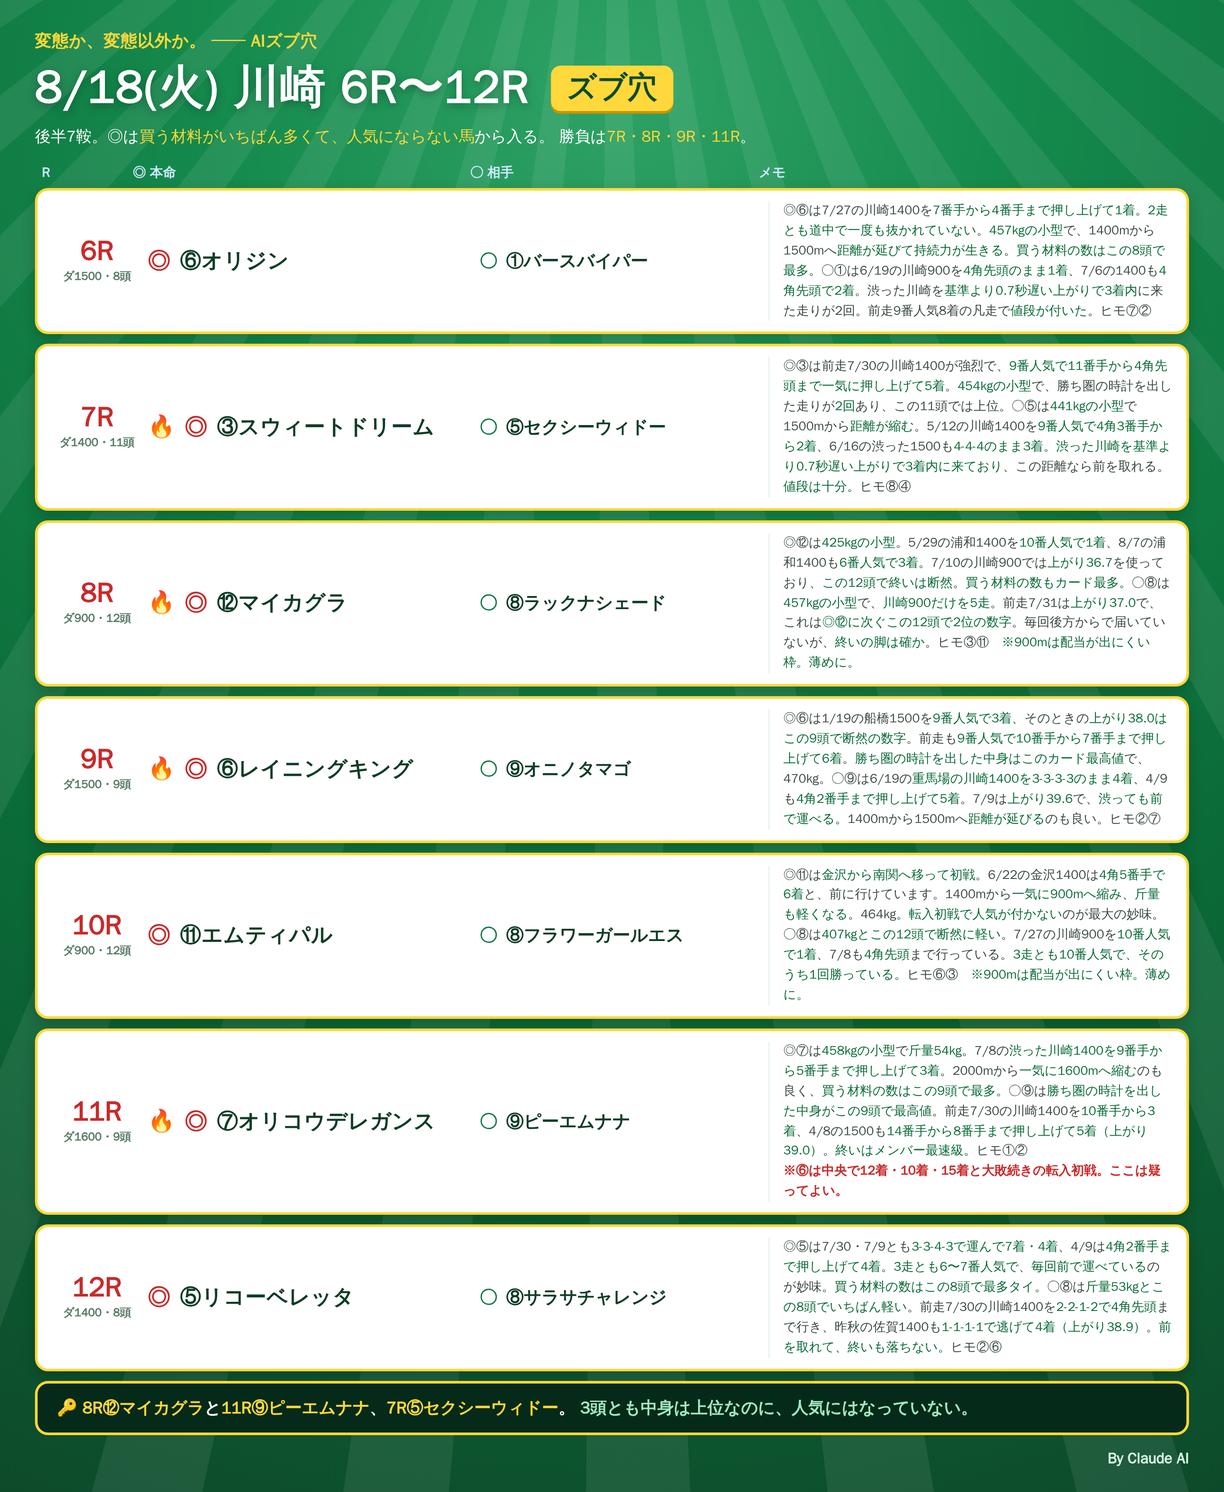
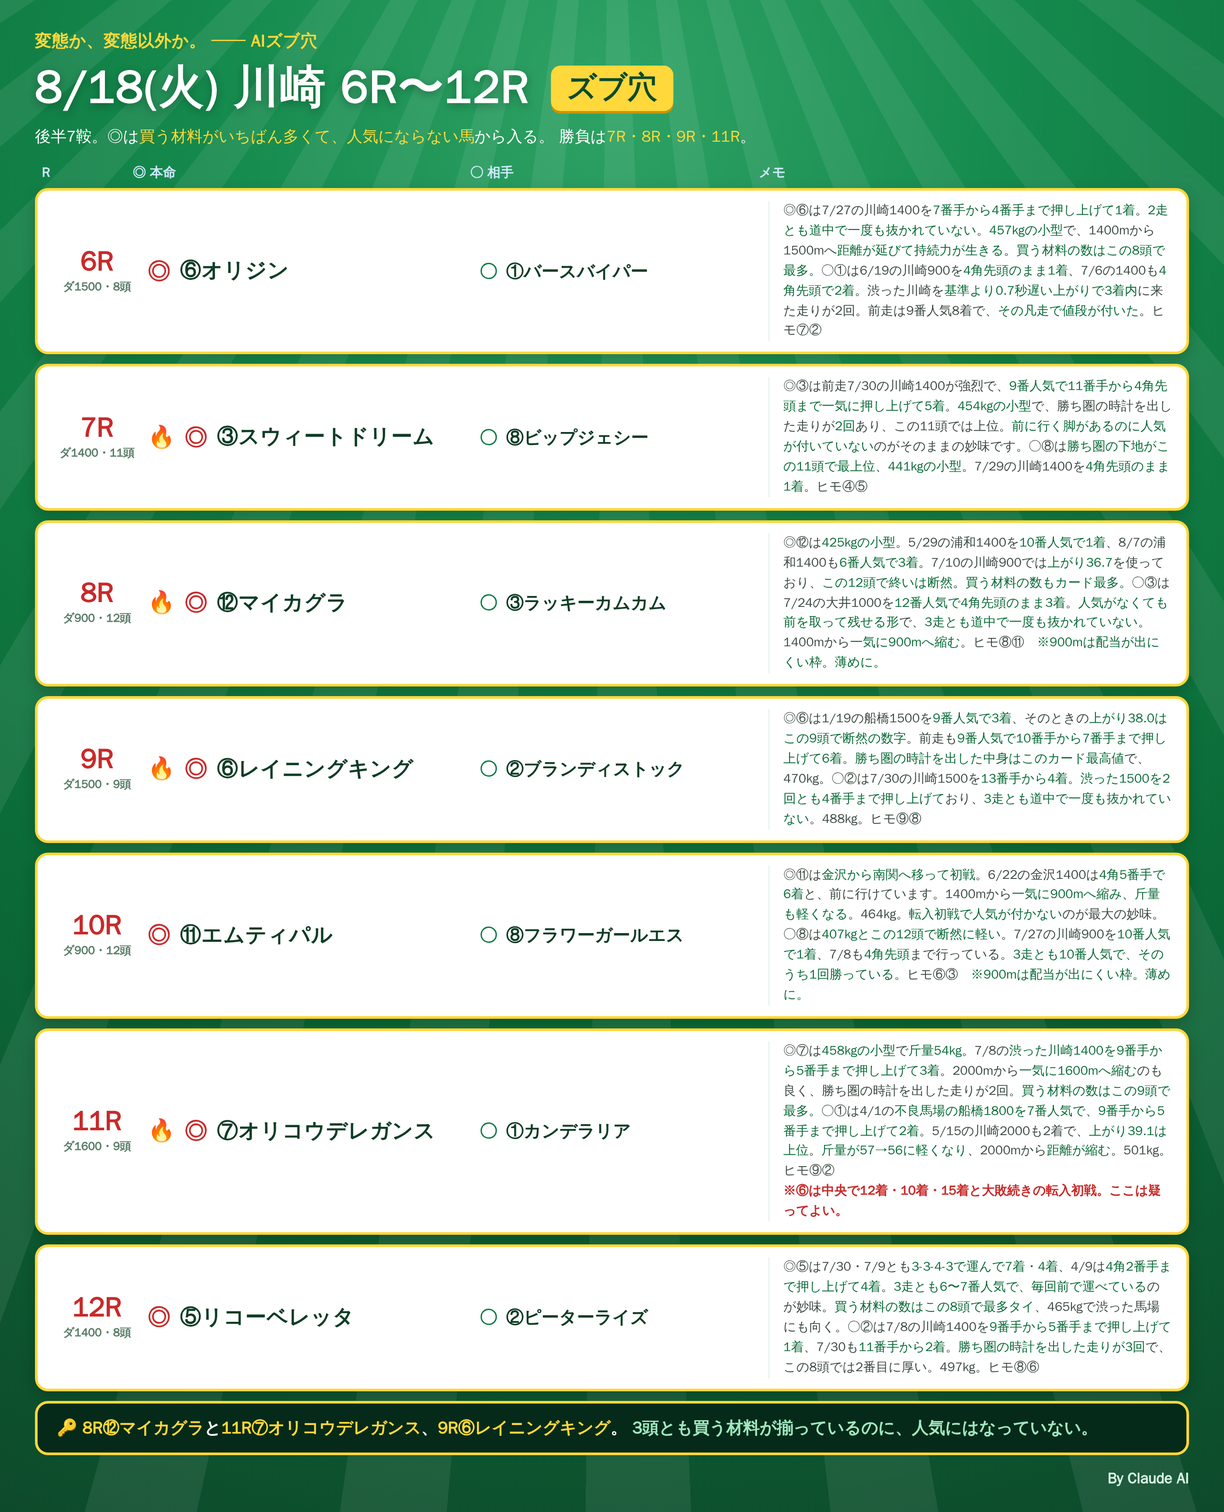
notes: 8/18 川崎 ○を当初の選定に戻す（人気側を許容）
Claude-Session: https://claude.ai/code/session_01RoHscZkr96FNaxQWvUqgEw

diff --git a/notes/live/2026-08-18/kawasaki_6_12.html b/notes/live/2026-08-18/kawasaki_6_12.html
@@ -40,6 +40,7 @@
   .sig { text-align:right; color:#d6f2e2; font-size:17px; font-weight:800; margin-top:16px; }
 </style></head>
 
+
 <body>
 <div class="card"><div class="rays"></div><div class="inner">
   <div class="kicker">変態か、変態以外か。 ── AIズブ穴</div>
@@ -56,28 +57,28 @@
     <div class="rN"><div class="n">6R</div><div class="d">ダ1500・8頭</div></div>
     <div class="hm"><span class="mk">◎</span><span class="nm">⑥オリジン</span></div>
     <div class="at"><span class="mk2">○</span><span class="nm2">①バースバイパー</span></div>
-    <div class="memo">◎⑥は7/27の川崎1400を<b>7番手から4番手まで押し上げて1着</b>。<b>2走とも道中で一度も抜かれていない</b>。<b>457kgの小型</b>で、1400mから1500mへ<b>距離が延びて持続力が生きる</b>。<b>買う材料の数はこの8頭で最多。</b>○①は6/19の川崎900を<b>4角先頭のまま1着</b>、7/6の1400も<b>4角先頭で2着</b>。渋った川崎を<b>基準より0.7秒遅い上がりで3着内</b>に来た走りが2回。前走9番人気8着の凡走で<b>値段が付いた</b>。ヒモ⑦②</div>
+    <div class="memo">◎⑥は7/27の川崎1400を<b>7番手から4番手まで押し上げて1着</b>。<b>2走とも道中で一度も抜かれていない</b>。<b>457kgの小型</b>で、1400mから1500mへ<b>距離が延びて持続力が生きる</b>。<b>買う材料の数はこの8頭で最多。</b>○①は6/19の川崎900を<b>4角先頭のまま1着</b>、7/6の1400も<b>4角先頭で2着</b>。渋った川崎を<b>基準より0.7秒遅い上がりで3着内</b>に来た走りが2回。前走は9番人気8着で、<b>その凡走で値段が付いた</b>。ヒモ⑦②</div>
   </div>
 
   <div class="row">
     <div class="rN"><div class="n">7R</div><div class="d">ダ1400・11頭</div></div>
     <div class="hm"><span class="fire">🔥</span><span class="mk">◎</span><span class="nm">③スウィートドリーム</span></div>
-    <div class="at"><span class="mk2">○</span><span class="nm2">⑤セクシーウィドー</span></div>
-    <div class="memo">◎③は前走7/30の川崎1400が強烈で、<b>9番人気で11番手から4角先頭まで一気に押し上げて5着</b>。<b>454kgの小型</b>で、勝ち圏の時計を出した走りが<b>2回</b>あり、この11頭では上位。○⑤は<b>441kgの小型</b>で1500mから<b>距離が縮む</b>。5/12の川崎1400を<b>9番人気で4角3番手から2着</b>、6/16の渋った1500も<b>4-4-4のまま3着</b>。<b>渋った川崎を基準より0.7秒遅い上がりで3着内に来ており</b>、この距離なら前を取れる。<b>値段は十分。</b>ヒモ⑧④</div>
+    <div class="at"><span class="mk2">○</span><span class="nm2">⑧ビップジェシー</span></div>
+    <div class="memo">◎③は前走7/30の川崎1400が強烈で、<b>9番人気で11番手から4角先頭まで一気に押し上げて5着</b>。<b>454kgの小型</b>で、勝ち圏の時計を出した走りが<b>2回</b>あり、この11頭では上位。<b>前に行く脚があるのに人気が付いていない</b>のがそのままの妙味です。○⑧は<b>勝ち圏の下地がこの11頭で最上位</b>、<b>441kgの小型</b>。7/29の川崎1400を<b>4角先頭のまま1着</b>。ヒモ④⑤</div>
   </div>
 
   <div class="row">
     <div class="rN"><div class="n">8R</div><div class="d">ダ900・12頭</div></div>
     <div class="hm"><span class="fire">🔥</span><span class="mk">◎</span><span class="nm">⑫マイカグラ</span></div>
-    <div class="at"><span class="mk2">○</span><span class="nm2">⑧ラックナシェード</span></div>
-    <div class="memo">◎⑫は<b>425kgの小型</b>。5/29の浦和1400を<b>10番人気で1着</b>、8/7の浦和1400も<b>6番人気で3着</b>。7/10の川崎900では<b>上がり36.7</b>を使っており、<b>この12頭で終いは断然</b>。<b>買う材料の数もカード最多。</b>○⑧は<b>457kgの小型</b>で、<b>川崎900だけを5走</b>。前走7/31は<b>上がり37.0</b>で、これは<b>◎⑫に次ぐこの12頭で2位の数字</b>。毎回後方からで届いていないが、<b>終いの脚は確か</b>。ヒモ③⑪　<b>※900mは配当が出にくい枠。薄めに。</b></div>
+    <div class="at"><span class="mk2">○</span><span class="nm2">③ラッキーカムカム</span></div>
+    <div class="memo">◎⑫は<b>425kgの小型</b>。5/29の浦和1400を<b>10番人気で1着</b>、8/7の浦和1400も<b>6番人気で3着</b>。7/10の川崎900では<b>上がり36.7</b>を使っており、<b>この12頭で終いは断然</b>。<b>買う材料の数もカード最多。</b>○③は7/24の大井1000を<b>12番人気で4角先頭のまま3着</b>。<b>人気がなくても前を取って残せる形</b>で、<b>3走とも道中で一度も抜かれていない</b>。1400mから<b>一気に900mへ縮む</b>。ヒモ⑧⑪　<b>※900mは配当が出にくい枠。薄めに。</b></div>
   </div>
 
   <div class="row">
     <div class="rN"><div class="n">9R</div><div class="d">ダ1500・9頭</div></div>
     <div class="hm"><span class="fire">🔥</span><span class="mk">◎</span><span class="nm">⑥レイニングキング</span></div>
-    <div class="at"><span class="mk2">○</span><span class="nm2">⑨オニノタマゴ</span></div>
-    <div class="memo">◎⑥は1/19の船橋1500を<b>9番人気で3着</b>、そのときの<b>上がり38.0はこの9頭で断然の数字</b>。前走も<b>9番人気で10番手から7番手まで押し上げて6着</b>。<b>勝ち圏の時計を出した中身はこのカード最高値</b>で、470kg。○⑨は6/19の<b>重馬場の川崎1400を3-3-3-3のまま4着</b>、4/9も<b>4角2番手まで押し上げて5着</b>。7/9は<b>上がり39.6</b>で、<b>渋っても前で運べる</b>。1400mから1500mへ<b>距離が延びる</b>のも良い。ヒモ②⑦</div>
+    <div class="at"><span class="mk2">○</span><span class="nm2">②ブランディストック</span></div>
+    <div class="memo">◎⑥は1/19の船橋1500を<b>9番人気で3着</b>、そのときの<b>上がり38.0はこの9頭で断然の数字</b>。前走も<b>9番人気で10番手から7番手まで押し上げて6着</b>。<b>勝ち圏の時計を出した中身はこのカード最高値</b>で、470kg。○②は7/30の川崎1500を<b>13番手から4着</b>。<b>渋った1500を2回とも4番手まで押し上げて</b>おり、<b>3走とも道中で一度も抜かれていない</b>。488kg。ヒモ⑨⑧</div>
   </div>
 
   <div class="row">
@@ -90,19 +91,19 @@
   <div class="row">
     <div class="rN"><div class="n">11R</div><div class="d">ダ1600・9頭</div></div>
     <div class="hm"><span class="fire">🔥</span><span class="mk">◎</span><span class="nm">⑦オリコウデレガンス</span></div>
-    <div class="at"><span class="mk2">○</span><span class="nm2">⑨ピーエムナナ</span></div>
-    <div class="memo">◎⑦は<b>458kgの小型</b>で<b>斤量54kg</b>。7/8の<b>渋った川崎1400を9番手から5番手まで押し上げて3着</b>。2000mから<b>一気に1600mへ縮む</b>のも良く、<b>買う材料の数はこの9頭で最多。</b>○⑨は<b>勝ち圏の時計を出した中身がこの9頭で最高値</b>。前走7/30の川崎1400を<b>10番手から3着</b>、4/8の1500も<b>14番手から8番手まで押し上げて5着（上がり39.0）</b>。<b>終いはメンバー最速級。</b>ヒモ①②<br><b class='r'>※⑥は中央で12着・10着・15着と大敗続きの転入初戦。ここは疑ってよい。</b></div>
+    <div class="at"><span class="mk2">○</span><span class="nm2">①カンデラリア</span></div>
+    <div class="memo">◎⑦は<b>458kgの小型</b>で<b>斤量54kg</b>。7/8の<b>渋った川崎1400を9番手から5番手まで押し上げて3着</b>。2000mから<b>一気に1600mへ縮む</b>のも良く、勝ち圏の時計を出した走りが2回。<b>買う材料の数はこの9頭で最多。</b>○①は4/1の<b>不良馬場の船橋1800を7番人気で、9番手から5番手まで押し上げて2着</b>。5/15の川崎2000も2着で、<b>上がり39.1は上位</b>。<b>斤量が57→56に軽くなり</b>、2000mから<b>距離が縮む</b>。501kg。ヒモ⑨②<br><b class='r'>※⑥は中央で12着・10着・15着と大敗続きの転入初戦。ここは疑ってよい。</b></div>
   </div>
 
   <div class="row">
     <div class="rN"><div class="n">12R</div><div class="d">ダ1400・8頭</div></div>
     <div class="hm"><span class="mk">◎</span><span class="nm">⑤リコーベレッタ</span></div>
-    <div class="at"><span class="mk2">○</span><span class="nm2">⑧サラサチャレンジ</span></div>
-    <div class="memo">◎⑤は7/30・7/9とも<b>3-3-4-3で運んで7着・4着</b>、4/9は<b>4角2番手まで押し上げて4着</b>。<b>3走とも6〜7番人気で、毎回前で運べている</b>のが妙味。<b>買う材料の数はこの8頭で最多タイ。</b>○⑧は<b>斤量53kgとこの8頭でいちばん軽い</b>。前走7/30の川崎1400を<b>2-2-1-2で4角先頭</b>まで行き、昨秋の佐賀1400も<b>1-1-1-1で逃げて4着（上がり38.9）</b>。<b>前を取れて、終いも落ちない。</b>ヒモ②⑥</div>
+    <div class="at"><span class="mk2">○</span><span class="nm2">②ピーターライズ</span></div>
+    <div class="memo">◎⑤は7/30・7/9とも<b>3-3-4-3で運んで7着・4着</b>、4/9は<b>4角2番手まで押し上げて4着</b>。<b>3走とも6〜7番人気で、毎回前で運べている</b>のが妙味。<b>買う材料の数はこの8頭で最多タイ</b>、465kgで渋った馬場にも向く。○②は7/8の川崎1400を<b>9番手から5番手まで押し上げて1着</b>、7/30も<b>11番手から2着</b>。<b>勝ち圏の時計を出した走りが3回</b>で、この8頭では2番目に厚い。497kg。ヒモ⑧⑥</div>
   </div>
 
-  <div class="foot">🔑 <span class="y">8R⑫マイカグラ</span>と<span class="y">11R⑨ピーエムナナ</span>、<span class="y">7R⑤セクシーウィドー</span>。
-  <span class="c">3頭とも中身は上位なのに、人気にはなっていない。</span></div>
+  <div class="foot">🔑 <span class="y">8R⑫マイカグラ</span>と<span class="y">11R⑦オリコウデレガンス</span>、<span class="y">9R⑥レイニングキング</span>。
+  <span class="c">3頭とも買う材料が揃っているのに、人気にはなっていない。</span></div>
   <div class="sig">By Claude AI</div>
 </div></div>
 </body></html>

diff --git a/notes/live/2026-08-18/kawasaki_triple_umatan.html b/notes/live/2026-08-18/kawasaki_triple_umatan.html
@@ -53,12 +53,12 @@
     <div class="line"><div class="tag"><span class="t1">1着 本命</span></div><div class="chips">
       <div class="chip honmei"><span class="no">11</span><span class="nm">エムティパル</span><span class="meta">エッジ4で12頭最多タイ・464kg・斤量減・1400→900の大幅短縮／<b>金沢から南関へ移って初戦＝人気が付かない</b></span></div></div></div>
     <div class="line"><div class="tag"><span class="t2">1着 保険</span></div><div class="chips">
-      <div class="chip hoken"><span class="no">2</span><span class="nm">アタゴテンジン</span><span class="meta">3走とも4角先頭（2着・3着・1着）＝堅い側の保険</span></div></div></div>
+      <div class="chip hoken"><span class="no">3</span><span class="nm">エースクイーン</span><span class="meta">3走とも1番人気（1着・3着・1着）・443kgの小型・4角先頭＝堅い側の保険</span></div></div></div>
     <div class="line"><div class="tag"><span class="t3">2着 →</span></div><div class="chips">
       <div class="chip aite ana"><span class="no">8</span><span class="nm">フラワーガールエス</span><span class="meta">407kg＝12頭で断然に軽い・斤53kg／7/27を<b>10番人気で1着</b>・3走とも10番人気</span></div>
       <div class="chip aite ana"><span class="no">6</span><span class="nm">キョウエイハゴロモ</span><span class="meta">7/27を9番人気で4角先頭から3着・減量51kgで最軽量斤量</span></div>
       <div class="chip aite"><span class="no">5</span><span class="nm">クレイスアバンティ</span><span class="meta">439kg・減量51kg・4角2番手</span></div>
-      <div class="chip aite"><span class="no">3</span><span class="nm">エースクイーン</span><span class="meta">3走とも1番人気で1着3着1着・443kgの小型・4角先頭</span></div></div></div>
+      <div class="chip aite"><span class="no">2</span><span class="nm">アタゴテンジン</span><span class="meta">3走とも4角先頭（2着・3着・1着）</span></div></div></div>
     <div class="rc">⑪は<b>転入初戦で人気が付かないのが最大の妙味</b>だが、中身は薄い。<span class="o">2着筆頭の⑧は3走とも10番人気で、そのうち1回勝っている</span>＝900mでいちばん配当になる形なので、<b>⑪→⑧と⑧→⑪の両にらみでよい</b>。保険は3走とも1番人気の③。</div>
   </div>
 
@@ -69,8 +69,8 @@
     <div class="line"><div class="tag"><span class="t2">1着 保険</span></div><div class="chips">
       <div class="chip hoken"><span class="no">3</span><span class="nm">スカイアクロス</span><span class="meta">実力軸1位45.1%・前走7/30の同コースを4角5番手から2着＝堅い側の保険</span></div></div></div>
     <div class="line"><div class="tag"><span class="t3">2着 →</span></div><div class="chips">
-      <div class="chip aite ana"><span class="no">9</span><span class="nm">ピーエムナナ</span><span class="meta">下地9.8＝<b>9頭で最高値</b>・461kg／7/30を10番手から3着・4/8は14番手から8番手まで押し上げ5着</span></div>
       <div class="chip aite ana"><span class="no">1</span><span class="nm">カンデラリア</span><span class="meta">エッジ6・下地9.2本物2・斤57→56／4/1の不良の船橋1800を<b>7番人気で2着</b></span></div>
+      <div class="chip aite ana"><span class="no">9</span><span class="nm">ピーエムナナ</span><span class="meta">下地9.8＝<b>9頭で最高値</b>・461kg／7/30を10番手から3着・4/8は14番手から8番手まで押し上げ5着</span></div>
       <div class="chip aite ana"><span class="no">8</span><span class="nm">デアシュトゥルム</span><span class="meta">3走とも4角先頭・6/19を9番人気3着・481kg</span></div>
       <div class="chip aite"><span class="no">4</span><span class="nm">エレファントラン</span><span class="meta">3走とも4角3番手以内・下地5.7本物2・480kg</span></div></div></div>
     <div class="rc">⑦は<b>エッジ7でカード最多、下地も本物2で最上位級</b>。2000mからの大幅短縮と斤54kgが後押し。<span class="o">保険は③スカイアクロス</span>。<b class="o">⑥オペラプラージュは中央で12着・10着・15着と大敗続きの転入初戦＝ここは疑ってよい。</b></div>
@@ -83,8 +83,8 @@
     <div class="line"><div class="tag"><span class="t2">1着 保険</span></div><div class="chips">
       <div class="chip hoken"><span class="no">6</span><span class="nm">ジーティーアグリム</span><span class="meta"><b>3連勝中</b>・下地10.4本物4で8頭断然・4角先頭・道中で一度も抜かれていない＝堅い側の保険</span></div></div></div>
     <div class="line"><div class="tag"><span class="t3">2着 →</span></div><div class="chips">
-      <div class="chip aite ana"><span class="no">8</span><span class="nm">サラサチャレンジ</span><span class="meta">斤53kgで8頭最軽量／7/30を2-2-1-2で4角先頭・昨秋の佐賀1400は逃げて4着（上がり38.9）</span></div>
       <div class="chip aite ana"><span class="no">2</span><span class="nm">ピーターライズ</span><span class="meta">エッジ5・下地9.6本物3＝8頭で2番目／7/8を9番手から1着・7/30も11番手から2着</span></div>
+      <div class="chip aite ana"><span class="no">8</span><span class="nm">サラサチャレンジ</span><span class="meta">斤53kgで8頭最軽量／7/30を2-2-1-2で4角先頭・昨秋の佐賀1400は逃げて4着（上がり38.9）</span></div>
       <div class="chip aite ana"><span class="no">7</span><span class="nm">ナリノエンブレム</span><span class="meta">3走とも4角先頭で一度も抜かれず・上がりのブレ1.20が小さい</span></div>
       <div class="chip aite"><span class="no">3</span><span class="nm">トウマ</span><span class="meta">464kg・下地4.9・3走とも掲示板圏内</span></div></div></div>
     <div class="rc">⑤は<b>毎回6〜7番人気なのに、毎回前で運べている</b>のが妙味。<span class="o">保険は3連勝中で下地断然の⑥</span>。8頭立てなので2着は絞りやすい。</div>
@@ -92,7 +92,7 @@
 
   <div class="buys">
     <div class="buy hon"><div class="bt">▶ 本線（1着2頭 × 2着3頭）</div>
-      <div class="bl">10R <span class="a">⑪②</span>→<span class="s">⑧⑥③</span> ／ 11R <span class="a">⑦③</span>→<span class="s">⑨①⑧</span> ／ 12R <span class="a">⑤⑥</span>→<span class="s">⑧②⑦</span></div>
+      <div class="bl">10R <span class="a">⑪③</span>→<span class="s">⑧⑥⑤</span> ／ 11R <span class="a">⑦③</span>→<span class="s">①⑨⑧</span> ／ 12R <span class="a">⑤⑥</span>→<span class="s">②⑦⑧</span></div>
       <div class="bn">6×6×6＝<b>216点・10,800円</b>。1着を◎＋保険の2頭に割り、2着を3頭で受ける標準形（トリプル馬単は1点50円）。</div></div>
     <div class="buy hok"><div class="bt">▶ 絞り／総取り</div>
       <div class="bl">絞り 1着を<span class="a">⑪・⑦・⑤</span>に固定 → 3×3×3＝<span class="a">27点・1,350円</span><br>総取り 8×8×8＝<span class="a">512点・25,600円</span>（2着を各4頭）</div>

diff --git a/notes/live/2026-08-18/README.md b/notes/live/2026-08-18/README.md
@@ -142,7 +142,7 @@
 
 → **◎7頭のうち6頭が5番人気以下。**7Rだけ4番人気だが、中身（前走9番人気で11番手から4角先頭まで押し上げ／下地6.2本物2）が断然のため据え置いた。
 
-## ★○を5レースで差し替え（人気側に寄っていたため）
+## ~~★○を5レースで差し替え（人気側に寄っていたため）~~ → **撤回（本人指示 2026-08-17「○もとに戻して！人気で良いから」）**
 | R | 旧○ | 人気 | → | 新○ | 人気 | 差し替えの理由 |
 |---|---|---|---|---|---|---|
 | 7R | ⑧ビップジェシー | 5人気8.0 | → | **⑤セクシーウィドー** | **10人気26.5** | 441kgの小型・踏1・5/12を9番人気で4角3番手から2着・1500→1400短縮 |
@@ -151,7 +151,9 @@
 | 11R | ①カンデラリア | 4人気8.8 | → | **⑨ピーエムナナ** | **8人気17.2** | **下地9.8＝9頭で最高値**・7/30を10番手から3着 |
 | 12R | ②ピーターライズ | **2人気3.1** | → | **⑧サラサチャレンジ** | **6人気16.3** | 斤53kgで8頭最軽量・7/30を4角先頭・佐賀1400を逃げて4着(上がり38.9) |
 
-→ **◎○14頭のうち11頭が6番人気以下。**旧○は全部ヒモに残した。
+→ **この差し替えは撤回。○は当初の「中身がいちばん確かな2番手」に戻した。**
+**○は人気側でよい**というのが本人の運用方針（◎＝人気を被らない馬／○＝中身が確かな馬、という役割分担）。
+差し替え候補（⑤セクシーウィドー・⑧ラックナシェード・⑨オニノタマゴ・⑨ピーエムナナ・⑧サラサチャレンジ）はヒモに置いた。
 
 **11Rの差し替えは、自分で指摘していた基準違反の是正でもある**
 （「◎が1位を取っていない層の1位を○に置く」なら、11Rの○は下地9.8の⑨であるべきだった）。
@@ -182,3 +184,20 @@
 - リード文の「◎7頭のうち6頭が5番人気以下」等の集計 → 削除
 - **過去走の人気（「7/27を10番人気で1着」等）は残してよい**＝実績の説明なので別物
 - 選定の裏側（実力軸順位・オッズ確認）はREADMEにだけ残す
+
+## ★確定版（○を戻した最終形）
+| R | ◎本命 | ○相手 | ヒモ |
+|---|---|---|---|
+| 6R ダ1500 | ⑥オリジン | ①バースバイパー | ⑦② |
+| **7R ダ1400** | **③スウィートドリーム** | ⑧ビップジェシー | ④⑤ |
+| **8R ダ900** | **⑫マイカグラ** | ③ラッキーカムカム | ⑧⑪ |
+| **9R ダ1500** | **⑥レイニングキング** | ②ブランディストック | ⑨⑧ |
+| 10R ダ900 | ⑪エムティパル | ⑧フラワーガールエス | ⑥③ |
+| **11R ダ1600** | **⑦オリコウデレガンス** | ①カンデラリア | ⑨② |
+| 12R ダ1400 | ⑤リコーベレッタ | ②ピーターライズ | ⑧⑥ |
+
+**トリプル馬単（確定）**
+- 本線 6×6×6＝216点・10,800円：10R ⑪③→⑧⑥⑤ ／ 11R ⑦③→①⑨⑧ ／ 12R ⑤⑥→②⑦⑧
+- 絞り：1着を ⑪・⑦・⑤ に固定 → 27点・1,350円
+
+**◎の運用方針（確定）**：◎＝人気を被らない馬／○＝中身がいちばん確かな馬。**○が人気側になるのは許容する。**
